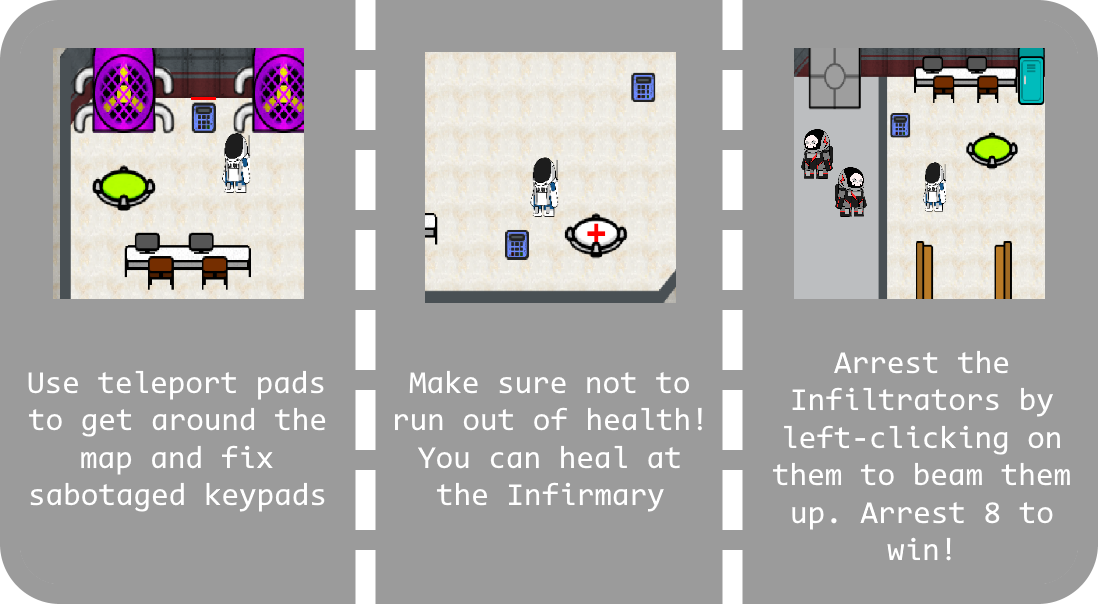
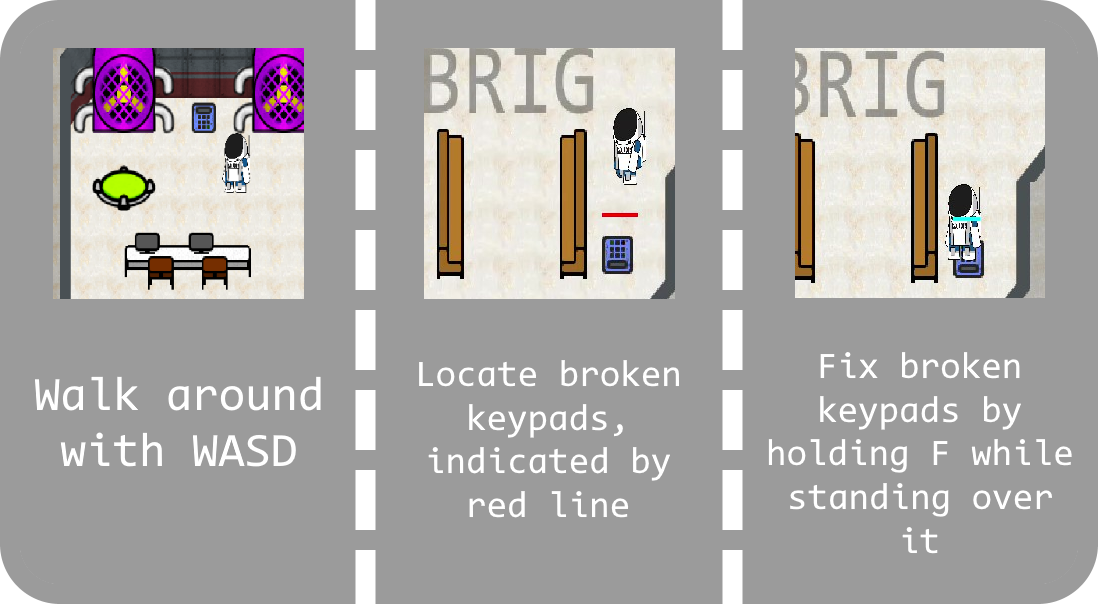
New tutorial

diff --git a/core/src/marlin/auber/systems/MainMenuSystem.java b/core/src/marlin/auber/systems/MainMenuSystem.java
@@ -12,9 +12,11 @@ import marlin.auber.models.World;
 public class MainMenuSystem implements System {
     private final Texture title = new Texture(Gdx.files.internal("graphics/title.png"));
     private final Texture tutorial = new Texture(Gdx.files.internal("graphics/tut.png"));
+    private final Texture tutorial2 = new Texture(Gdx.files.internal("graphics/tut2.png"));
     private final SpriteBatch guiBatch = new SpriteBatch();
     private boolean startGame = false;
-    private boolean showTut = false;
+    private boolean showTut1 = false;
+    private boolean showTut2 = false;
 
     private BitmapFont font = Assets.fonts.cnr;
 
@@ -24,9 +26,17 @@ public class MainMenuSystem implements System {
             Gdx.gl.glViewport(0, 0, Gdx.graphics.getWidth(), Gdx.graphics.getHeight());
             guiBatch.begin();
         }
-        if (this.showTut) {
+        if (this.showTut1) {
             // show tut
             World.getWorld().map.scaleGui(tutorial, 0.9f, guiBatch);
+            if (Gdx.input.isButtonJustPressed(Input.Buttons.LEFT)) {
+                this.showTut2 = true;
+                this.showTut1 = false;
+            }
+        }
+        else if (this.showTut2) {
+            // show tut
+            World.getWorld().map.scaleGui(tutorial2, 0.9f, guiBatch);
             if (Gdx.input.isButtonJustPressed(Input.Buttons.LEFT)) {
                 this.startGame = true;
             }
@@ -35,16 +45,21 @@ public class MainMenuSystem implements System {
             // show title
             World.getWorld().map.scaleGui(title, 1.0f, guiBatch);
             if (Gdx.input.isButtonJustPressed(Input.Buttons.LEFT)) {
-                this.showTut = true;
+                this.showTut1 = true;
             }
         }
         guiBatch.end();
     }
 
+    /**
+     * Starts game, resets main menu for next use
+     * @return whether or not the game should begin
+     */
     public boolean checkStartGame() {
         if (this.startGame) {
             this.startGame = false;
-            this.showTut = false;
+            this.showTut1 = false;
+            this.showTut2 = false;
             return true;
         }
         else {return false;}
